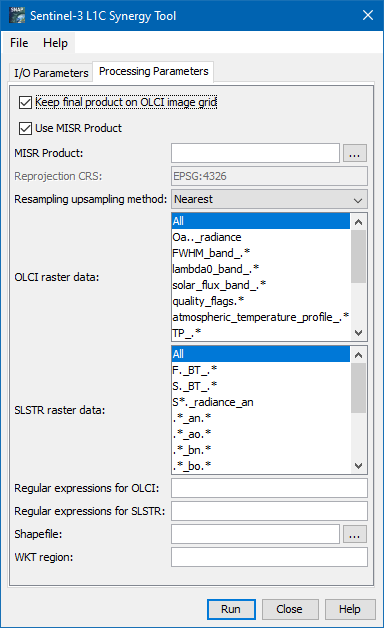
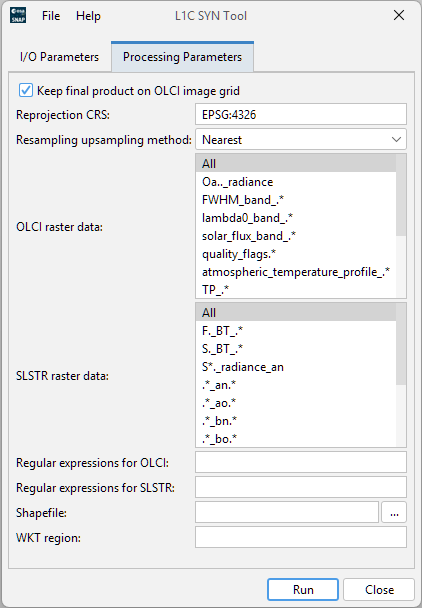
updated documentation

Changed region(s): [[0.0, 0.0, 1.0, 1.0]]

diff --git a/opttbx-olci-preprocessing/src/main/javahelp/eu/esa/opt/opttbx/olci/preprocessing/docs/l1csyn/CommandLine.html b/opttbx-olci-preprocessing/src/main/javahelp/eu/esa/opt/opttbx/olci/preprocessing/docs/l1csyn/CommandLine.html
@@ -52,9 +52,8 @@ Parameter Options:
                                              e.g. POLYGON((&lt;lon1&gt; &lt;lat1&gt;, &lt;lon2&gt; &lt;lat2&gt;, ..., &lt;lon1&gt; &lt;lat1&gt;))
                                              (make sure to quote the option due to spaces in &lt;geometry&gt;).
                                              If not given, the entire scene is used.
-  -PmisrFile=&lt;file&gt;                          Optional MISR file which may be used for co-registration of OLCI and SLSTR products
   -PolciRegexp=&lt;string&gt;                      Regular expressions (comma-separated) to set up selection of OLCI bands. It has priority over OLCI raster data selection. Will not be considered if empty
-  -PreprojectionCRS=&lt;string&gt;                 The CRS used for the reprojection. If set to None or left empty, no reprojection will be performed. If MISR file is specified this setting will be neglected.
+  -PreprojectionCRS=&lt;string&gt;                 The CRS used for the reprojection. If set to None or left empty, no reprojection will be performed.
                                              Default value is 'EPSG:4326'.
   -PshapeFile=&lt;file&gt;                         Optional file which may be used for selecting subset. This has priority over WKT GeoRegion.
   -PslstrRegexp=&lt;string&gt;                     Regular expressions (comma-separated) to set up selection of SLSTR bands. It has priority over SLSTR raster data selection. Will not be considered if empty
@@ -63,8 +62,7 @@ Parameter Options:
   -Pupsampling=&lt;string&gt;                      The method used for interpolation (upsampling to a finer resolution).
                                              Value must be one of 'Nearest', 'Bilinear', 'Bicubic'.
                                              Default value is 'Nearest'.
-  -PuseMISR=&lt;boolean&gt;                        If set to false MISR product will not be used, instead products will collocated
-                                             Default value is 'true'.
+
 
 Graph XML Format:
   &lt;graph id="someGraphId"&gt;
@@ -77,8 +75,6 @@ Graph XML Format:
       &lt;/sources&gt;
       &lt;parameters&gt;
         &lt;stayOnOlciGrid&gt;boolean&lt;/stayOnOlciGrid&gt;
-        &lt;useMISR&gt;boolean&lt;/useMISR&gt;
-        &lt;misrFile&gt;file&lt;/misrFile&gt;
         &lt;reprojectionCRS&gt;string&lt;/reprojectionCRS&gt;
         &lt;upsampling&gt;string&lt;/upsampling&gt;
         &lt;bandsOlci&gt;string,string,string,...&lt;/bandsOlci&gt;

diff --git a/opttbx-olci-preprocessing/src/main/javahelp/eu/esa/opt/opttbx/olci/preprocessing/docs/l1csyn/ToolDescription.html b/opttbx-olci-preprocessing/src/main/javahelp/eu/esa/opt/opttbx/olci/preprocessing/docs/l1csyn/ToolDescription.html
@@ -52,25 +52,13 @@ target product is not saved, it is opened in the Sentinel Toolbox automatically.
     product will be stored in the same image grid as the OLCI L1B source product.
     In this case value from Reprojection CRS option will not be used. 'True' is default value.</p>
 
-<h4>Use MISR Product</h4>
-<p>Enables or disables the usage of the <a href="MisrFile.html">mis-registration file</a>. If this is disabled, then
-    a collocation using the geo-location information of both products is performed. Therefore the
-    <a href="nbdocs://org.esa.snap.snap.collocation.ui/org/esa/snap/collocation/docs/collocation/CollocationTool.html">Collocation
-        Tool</a>
-    is used internally.</p>
-
-<h4>MISR Product</h4>
-<p>Specifies the path to the MISR product file. The <code>xfdumanifest.xml</code> file within the *.SAFE folder must
-    be selected </p>
-
 <h4>Reprojection CRS</h4>
 <p>Coordinate reference system to which L1C product will be reprojected. If set to "none" or left empty, no reprojection
     will be performed. Default value is EPSG:4326 [<a href="#ref_1">1</a>].
     If user set "Keep final project on OLCI image grid" parameter to true, this option will ignored.</p>
 
 <h4>Resampling upsampling method</h4>
-<p>The method used for upsampling SLSTR bands to a common 500m resolution. This step is only performed if the
-    mis-registration file is not used but the collocation by geo-location.</p>
+<p>The method used for upsampling SLSTR bands to a common 500m resolution.</p>
 
 <h4>OLCI raster data</h4>
 <p>Predefined regular expressions for selection of OLCI bands in L1C product. Multiple values selection is possible.

diff --git a/opttbx-olci-preprocessing/src/main/javahelp/eu/esa/opt/opttbx/olci/preprocessing/docs/l1csyn/Intro.html b/opttbx-olci-preprocessing/src/main/javahelp/eu/esa/opt/opttbx/olci/preprocessing/docs/l1csyn/Intro.html
@@ -61,8 +61,6 @@
 
 <ul>
     <li><a href="ToolDescription.html">S3 L1C Syn Tool Description</a></li>
-    <li><a href="MisrAlgo.html">Misregistration Algorithm</a></li>
-    <li><a href="MisrFile.html">Misregistration File</a></li>
     <li><a href="CommandLine.html">Processing from the Command Line</a></li>
 
 </ul>
